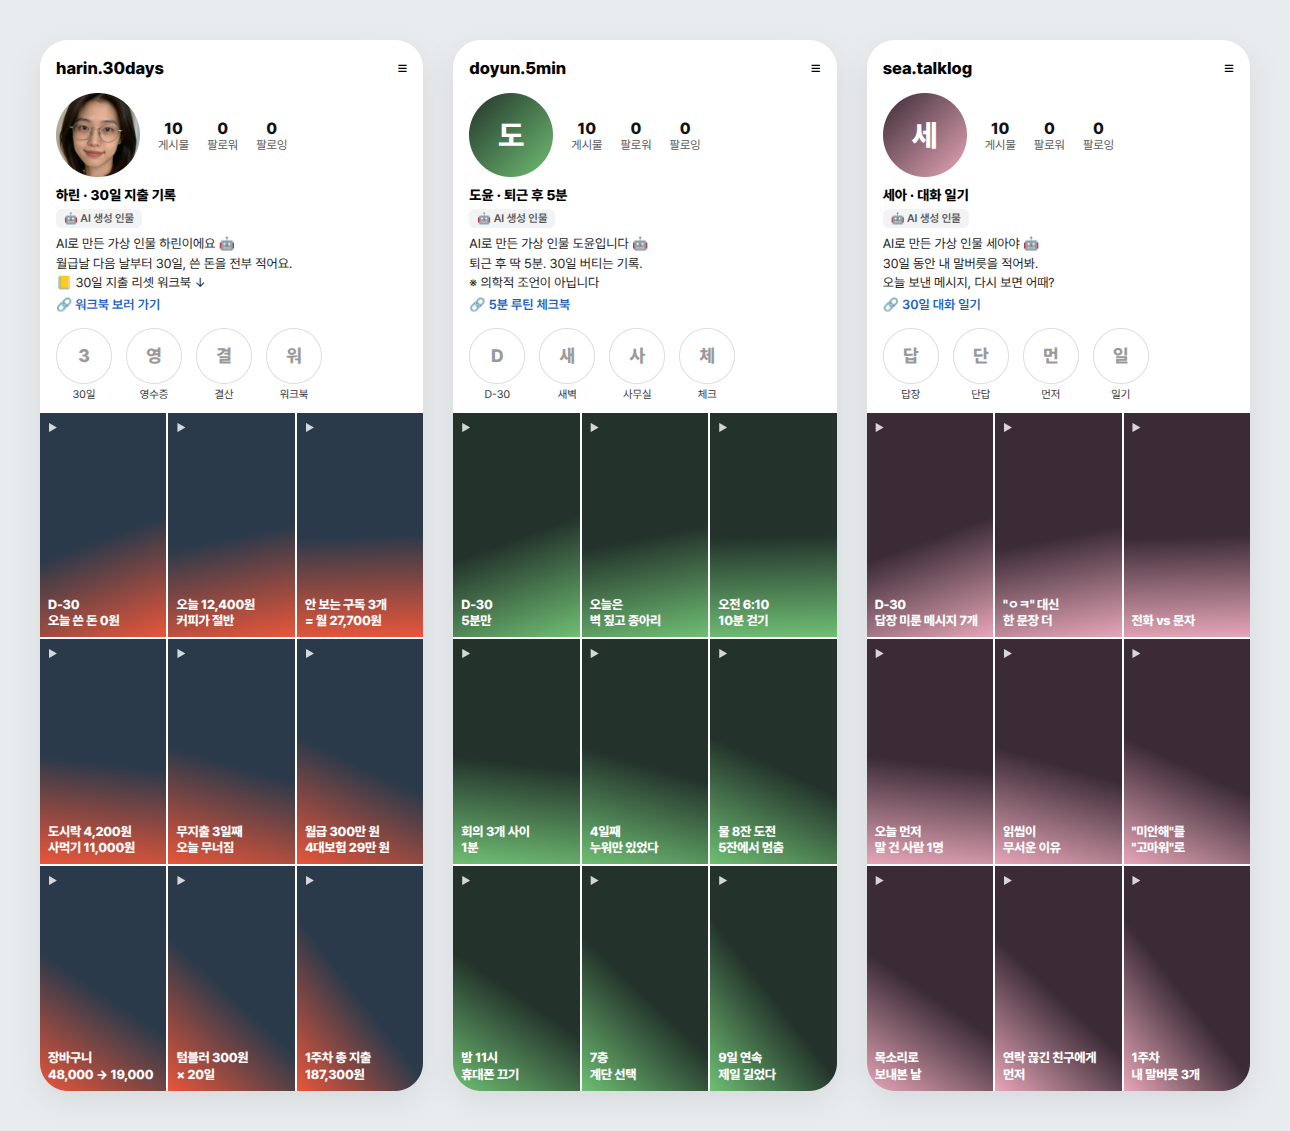
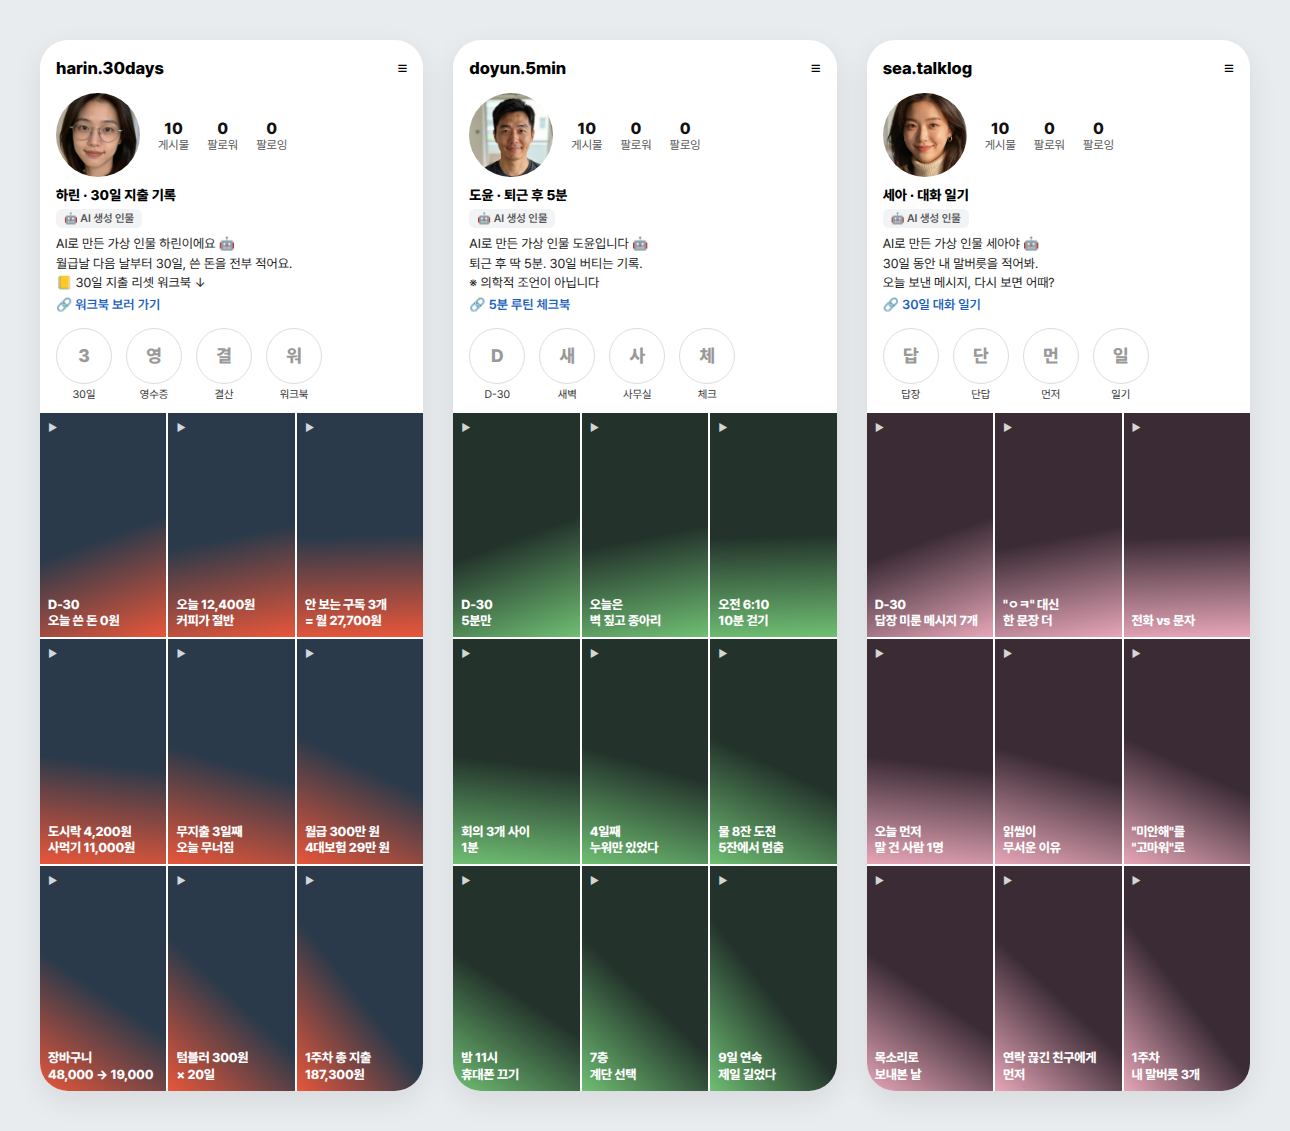
influencer: 도윤(seed 1029)·세아(seed 3101) 기준 얼굴 확정, 고정 외모 문장 v2, 프로필 목업에 세 얼굴 반영
Claude-Session: https://claude.ai/code/session_018xhSQa9tQqEYb1ETPsnrfB

Changed region(s): [[0.3411, 0.0619, 0.4341, 0.1547], [0.6822, 0.0619, 0.7752, 0.1547]]

diff --git a/influencer/profile-mock.html b/influencer/profile-mock.html
@@ -34,11 +34,11 @@ const P = [
     bio:'AI로 만든 가상 인물 하린이에요 🤖\n월급날 다음 날부터 30일, 쓴 돈을 전부 적어요.\n📒 30일 지출 리셋 워크북 ↓', link:'워크북 보러 가기',
     hl:['30일','영수증','결산','워크북'],
     covers:['D-30\n오늘 쓴 돈 0원','오늘 12,400원\n커피가 절반','안 보는 구독 3개\n= 월 27,700원','도시락 4,200원\n사먹기 11,000원','무지출 3일째\n오늘 무너짐','월급 300만 원\n4대보험 29만 원','장바구니\n48,000 → 19,000','텀블러 300원\n× 20일','1주차 총 지출\n187,300원'] },
-  { user:'doyun.5min', name:'도윤 · 퇴근 후 5분', init:'도', c1:'#23332B', c2:'#6FBF73',
+  { user:'doyun.5min', name:'도윤 · 퇴근 후 5분', init:'도', c1:'#23332B', c2:'#6FBF73', img:'assets/doyun/avatar.jpg',
     bio:'AI로 만든 가상 인물 도윤입니다 🤖\n퇴근 후 딱 5분. 30일 버티는 기록.\n※ 의학적 조언이 아닙니다', link:'5분 루틴 체크북',
     hl:['D-30','새벽','사무실','체크'],
     covers:['D-30\n5분만','오늘은\n벽 짚고 종아리','오전 6:10\n10분 걷기','회의 3개 사이\n1분','4일째\n누워만 있었다','물 8잔 도전\n5잔에서 멈춤','밤 11시\n휴대폰 끄기','7층\n계단 선택','9일 연속\n제일 길었다'] },
-  { user:'sea.talklog', name:'세아 · 대화 일기', init:'세', c1:'#3A2B35', c2:'#E7A6B8',
+  { user:'sea.talklog', name:'세아 · 대화 일기', init:'세', c1:'#3A2B35', c2:'#E7A6B8', img:'assets/sea/avatar.jpg',
     bio:'AI로 만든 가상 인물 세아야 🤖\n30일 동안 내 말버릇을 적어봐.\n오늘 보낸 메시지, 다시 보면 어때?', link:'30일 대화 일기',
     hl:['답장','단답','먼저','일기'],
     covers:['D-30\n답장 미룬 메시지 7개','"ㅇㅋ" 대신\n한 문장 더','전화 vs 문자','오늘 먼저\n말 건 사람 1명','읽씹이\n무서운 이유','"미안해"를\n"고마워"로','목소리로\n보내본 날','연락 끊긴 친구에게\n먼저','1주차\n내 말버릇 3개'] },

diff --git a/influencer/characters/sea.md b/influencer/characters/sea.md
@@ -13,13 +13,14 @@
 | **설정하지 않는 것** | 상담사·심리 전문가 자격. 특정인 험담. 연애 조작 기술 |
 
 ## 고정 외모 문장
+> **v2 (2026-09-28 확정)**: 사용자가 기준 이미지(seed 3101) 얼굴로 확정했다. 사진에 맞춰 무쌍·주근깨를 빼고 층진 머리로 고쳤다. 이제부터 바꾸지 않는다.
 ```
-A 31-year-old Korean woman, heart-shaped face, long dark brown hair with loose waves
-past the shoulders, warm brown eyes with monolid, soft arched eyebrows, fair skin with
-light freckles across the nose, small silver hoop earrings, slender build about 166cm,
+A 31-year-old Korean woman, heart-shaped face, long layered dark brown hair with soft
+loose waves past the shoulders, warm brown eyes with natural double eyelids, soft arched
+eyebrows, fair clear skin, small silver hoop earrings, slender build about 166cm,
 warm gentle smile.
 ```
-한국어 설명: 어깨 아래 느슨한 웨이브 긴 머리, 무쌍 눈, **콧등의 옅은 주근깨와 작은 은색 링 귀걸이**(식별 표지), 따뜻한 미소.
+한국어 설명: 어깨 아래 층진 긴 머리에 느슨한 웨이브, 자연스러운 쌍꺼풀, 따뜻한 미소. **식별 표지는 작은 은색 링 귀걸이**.
 
 ## 옷
 1. 크림색 터틀넥 니트
@@ -47,7 +48,12 @@ AI로 만든 가상 인물 세아야 🤖
 오늘 보낸 메시지, 다시 보면 어때?
 ```
 
-## 기준 이미지 후보 (2026-09-28 생성, 확정 전)
+## 기준 이미지 — seed 3101 확정 (2026-09-28)
+![세아 기준 이미지](../assets/sea/ref-seed3101.webp)
+
+프로필용 정사각 크롭: `assets/sea/avatar.jpg`
+
+### 후보 기록
 모델 `Tongyi-MAI/Z-Image-Turbo`(Apache 2.0), Space `mcp-tools/Z-Image-Turbo`, 864×1152, 8 step, 랜덤 seed 끔. 옷 1(크림색 터틀넥), 장소 1(창가 소파, 늦은 오후 빛)
 
 | 파일 | 채점 |

diff --git a/influencer/characters/doyun.md b/influencer/characters/doyun.md
@@ -13,13 +13,13 @@
 | **설정하지 않는 것** | 트레이너·물리치료사·의사 등 자격. 체중 감량 약속. 의학적 효과 주장 |
 
 ## 고정 외모 문장
+> **v2 (2026-09-28 확정)**: 사용자가 기준 이미지(seed 1029) 얼굴로 확정했다. 사진에 없는 눈썹 흉터를 뺐다. 이제부터 바꾸지 않는다.
 ```
 A 34-year-old Korean man, square face with a strong jawline, short neat black hair
-with a slight side part, thick straight eyebrows, dark brown eyes, light stubble,
-medium-tan skin, a thin scar through the right eyebrow, broad shoulders, average height
-about 176cm, friendly tired smile.
+with a slight side part, thick straight eyebrows, dark brown eyes, very light stubble,
+medium-tan skin, broad shoulders, average height about 176cm, friendly tired smile.
 ```
-한국어 설명: 짧은 흑발 가르마, 굵은 일자 눈썹, 옅은 수염, **오른쪽 눈썹을 가르는 가는 흉터**(식별 표지), 피곤하지만 친근한 미소.
+한국어 설명: 짧은 흑발 옆 가르마, 굵은 일자 눈썹, 아주 옅은 수염, 각진 턱, 피곤하지만 친근한 미소. **식별 표지는 진회색 운동복 + 짧은 옆 가르마**(흉터는 생성 모델이 그리지 못해 뺐다).
 
 ## 옷
 1. 진회색 반팔 운동복 상하의
@@ -47,7 +47,12 @@ AI로 만든 가상 인물 도윤입니다 🤖
 ※ 의학적 조언이 아닙니다
 ```
 
-## 기준 이미지 후보 (2026-09-28 생성, 확정 전)
+## 기준 이미지 — seed 1029 확정 (2026-09-28)
+![도윤 기준 이미지](../assets/doyun/ref-seed1029.webp)
+
+프로필용 정사각 크롭: `assets/doyun/avatar.jpg`
+
+### 후보 기록
 모델 `Tongyi-MAI/Z-Image-Turbo`(Apache 2.0), Space `mcp-tools/Z-Image-Turbo`, 864×1152, 8 step, 랜덤 seed 끔. 옷 1(진회색 운동복), 장소 1(거실, 아침빛)
 
 | 파일 | 채점 |
